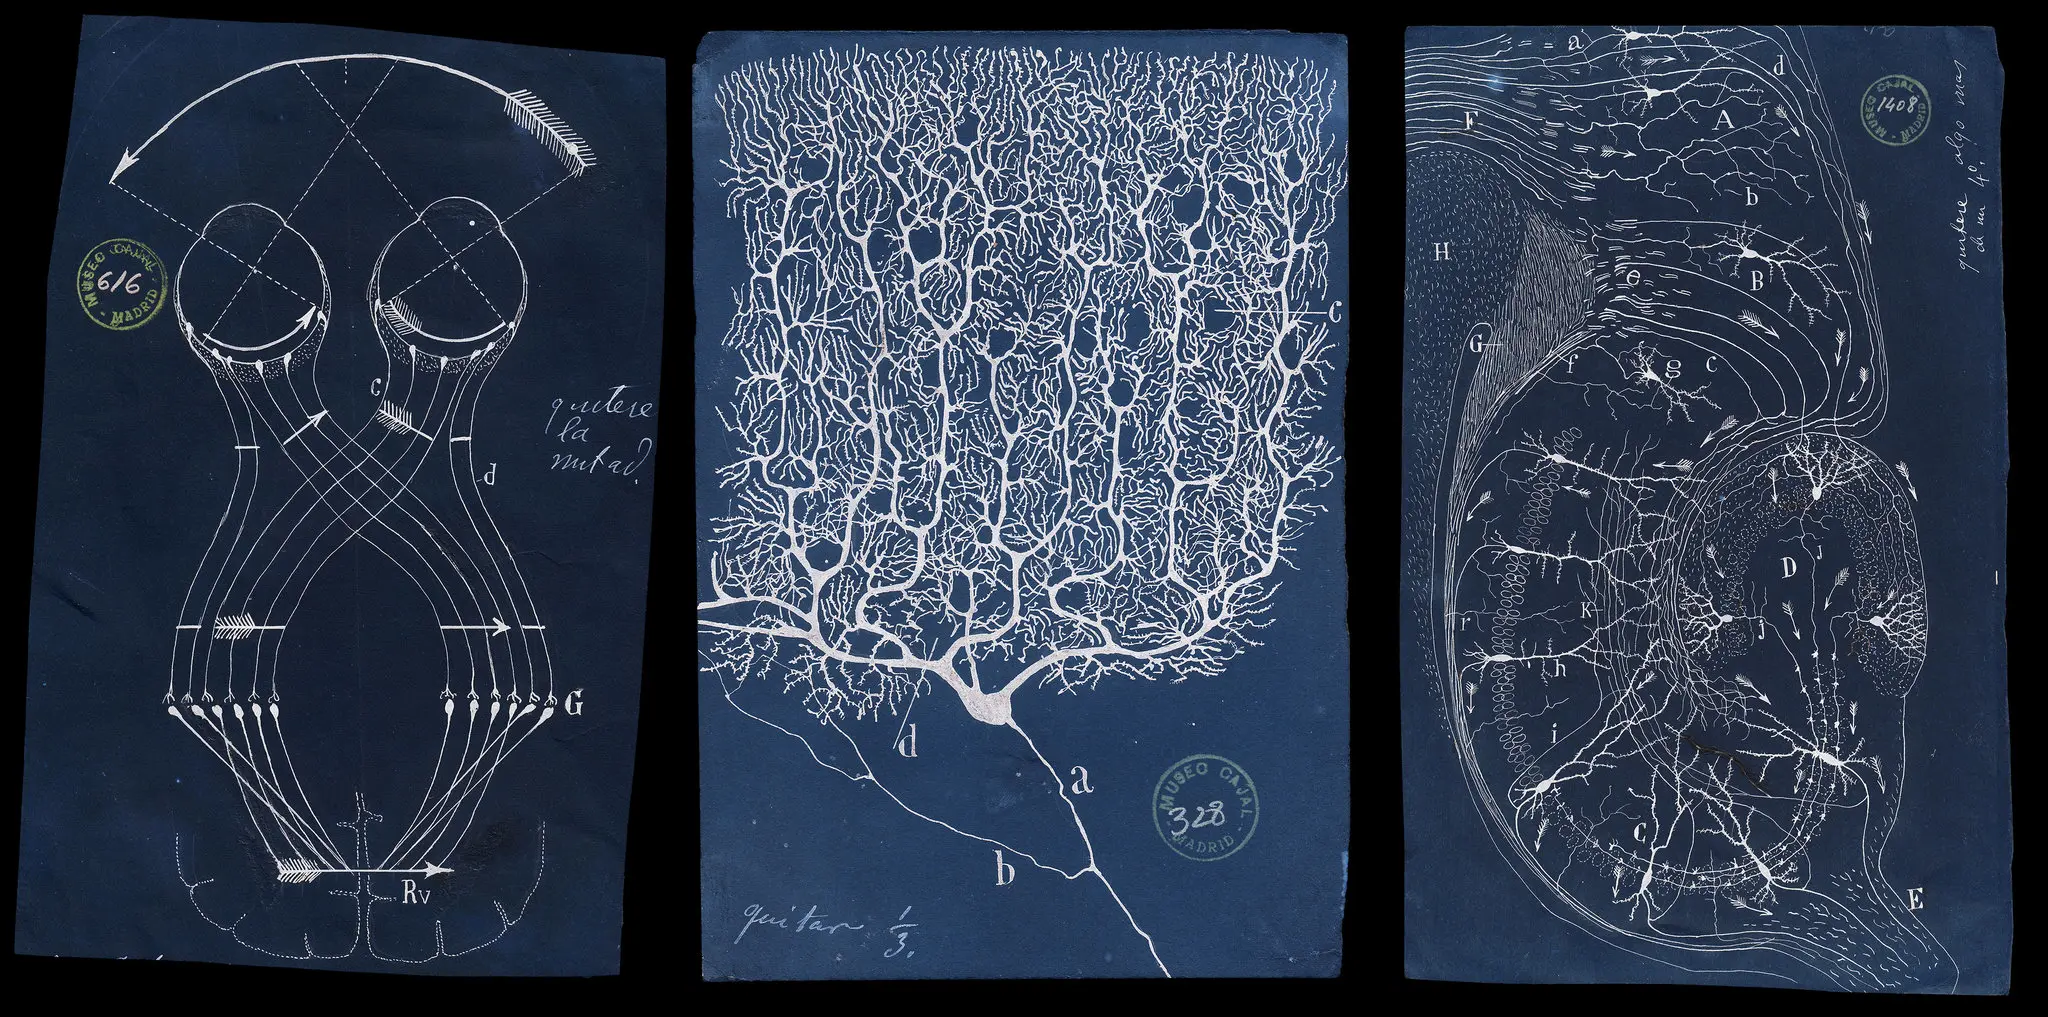
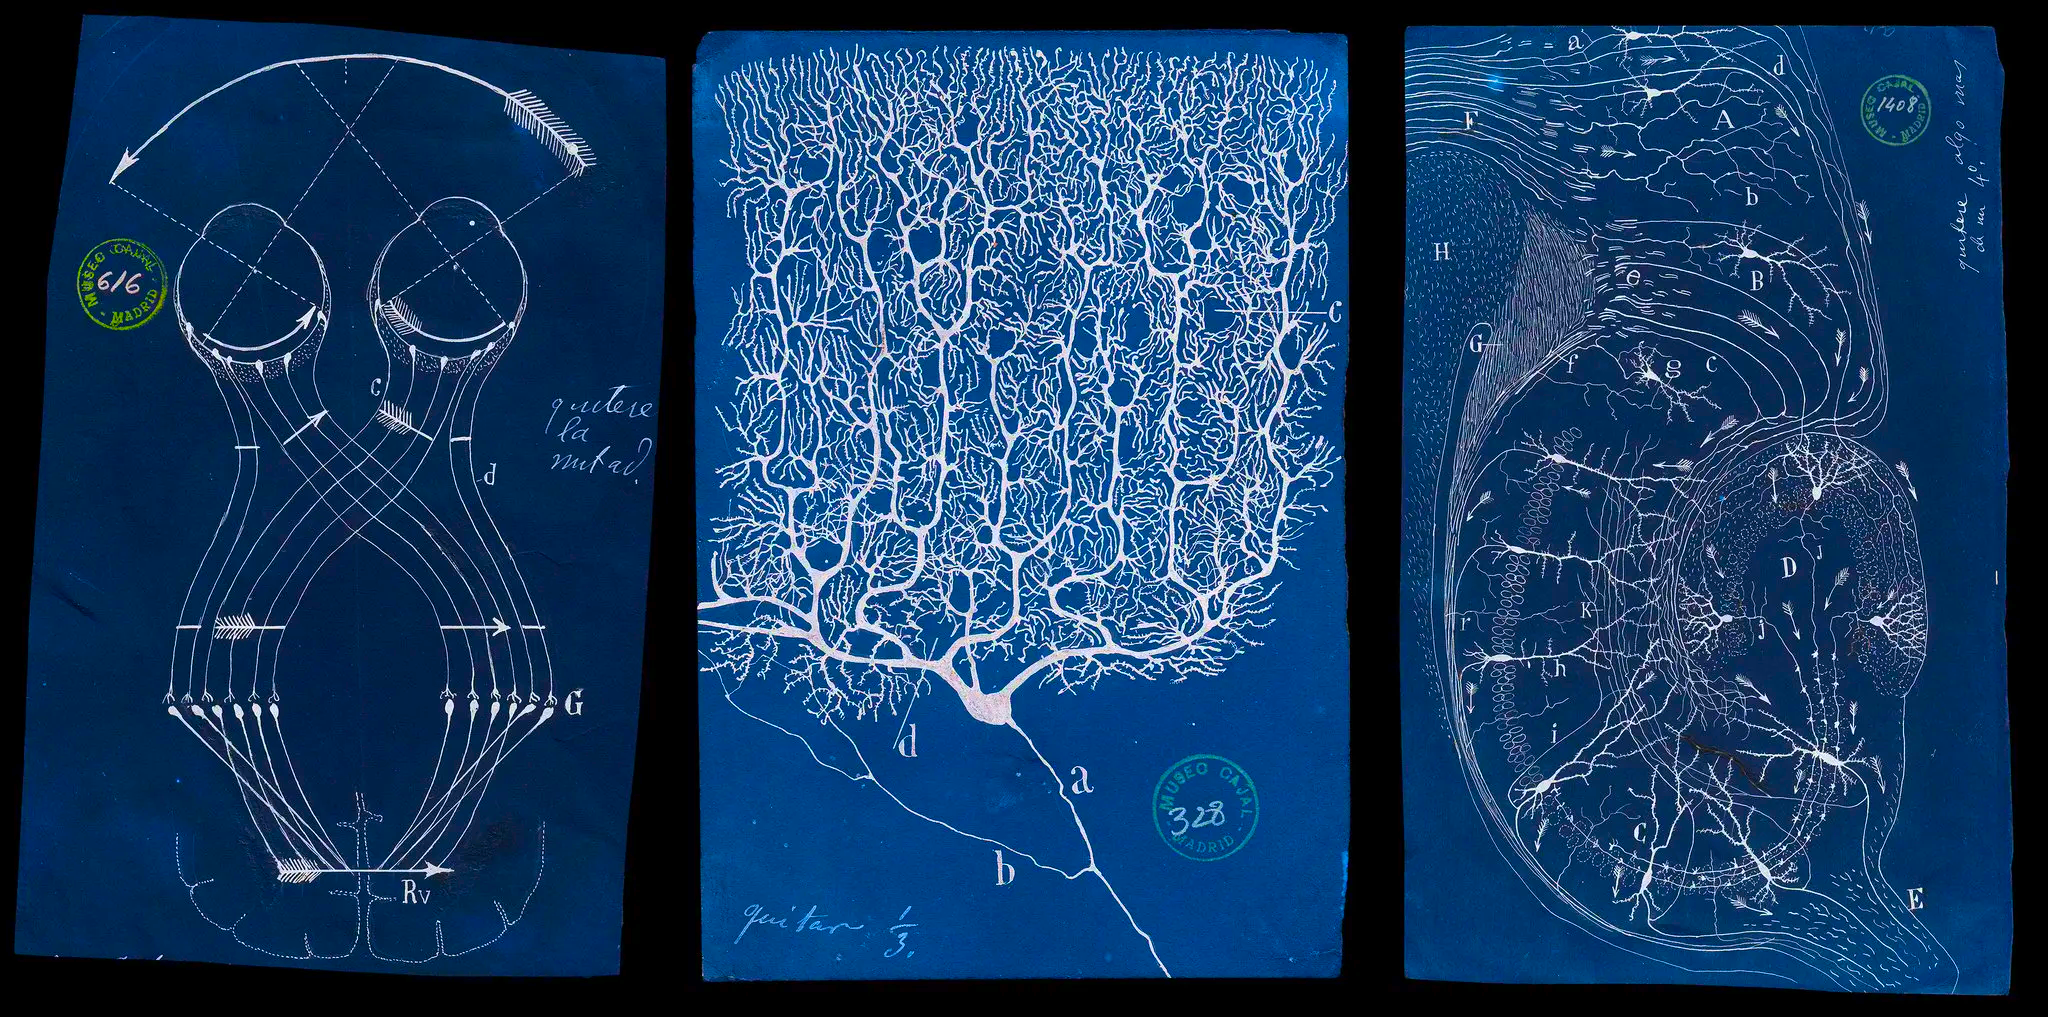
scaled down cajal

diff --git a/index.html b/index.html
@@ -1,3 +1,4 @@
+
 <!DOCTYPE html>
 <html>
 <head>
@@ -12,8 +13,9 @@ body {
 }
 
 img {
-    max-width: 100%;
-    height: auto;
+    max-width: 60vw;
+    max-height: 100vh;
+    object-fit: contain;
 }
 </style>
 </head>
